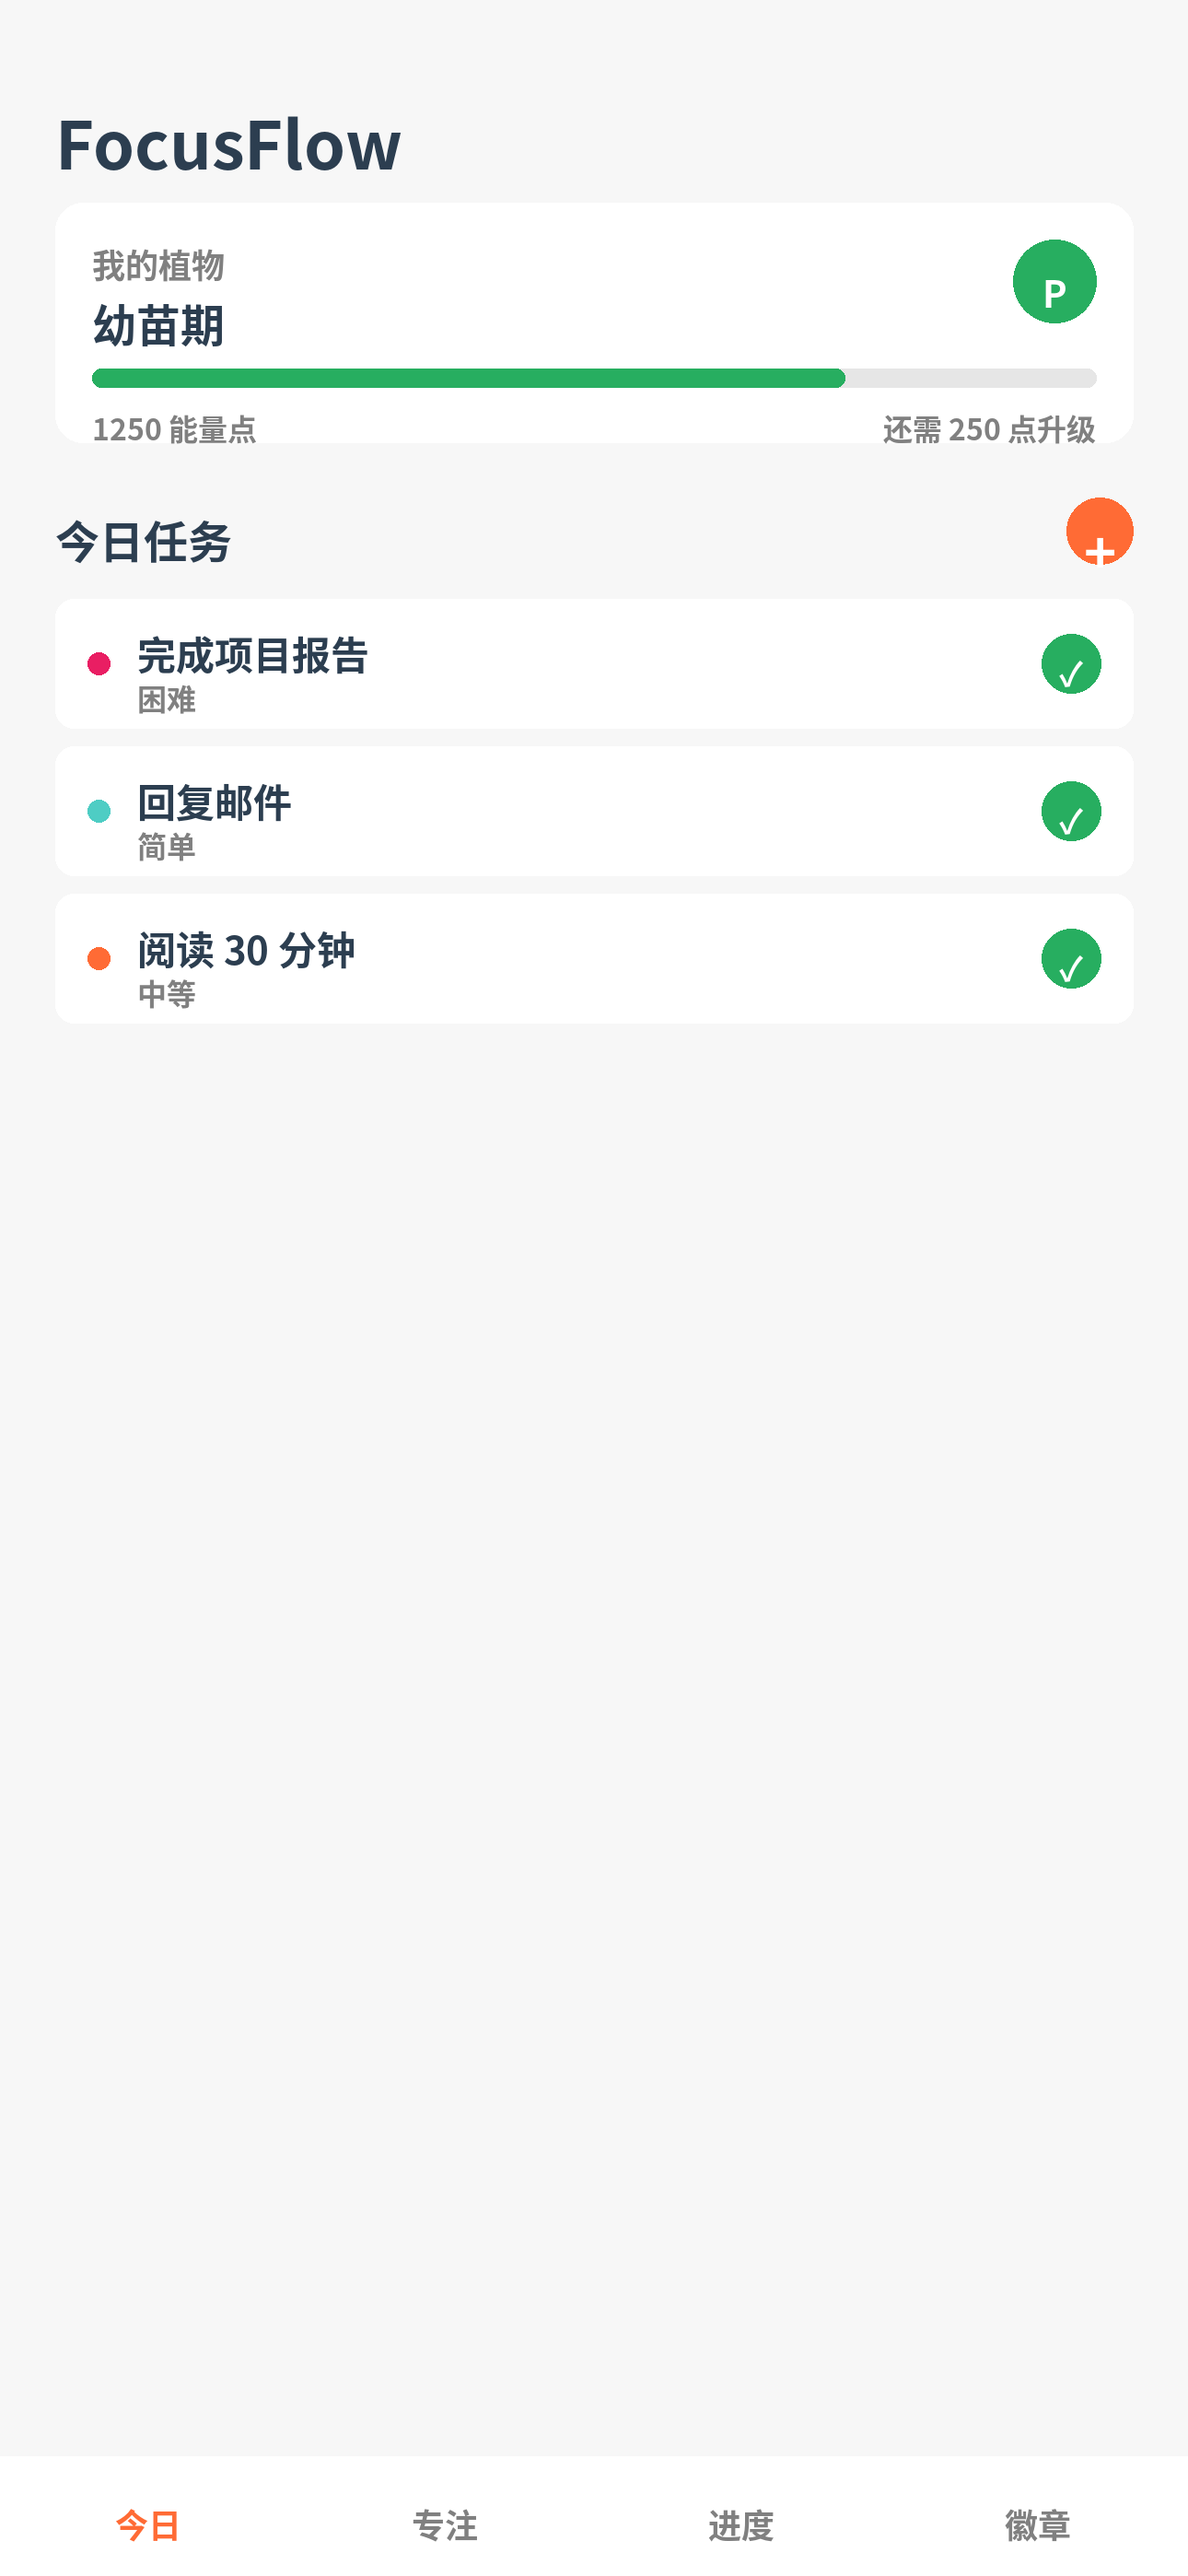
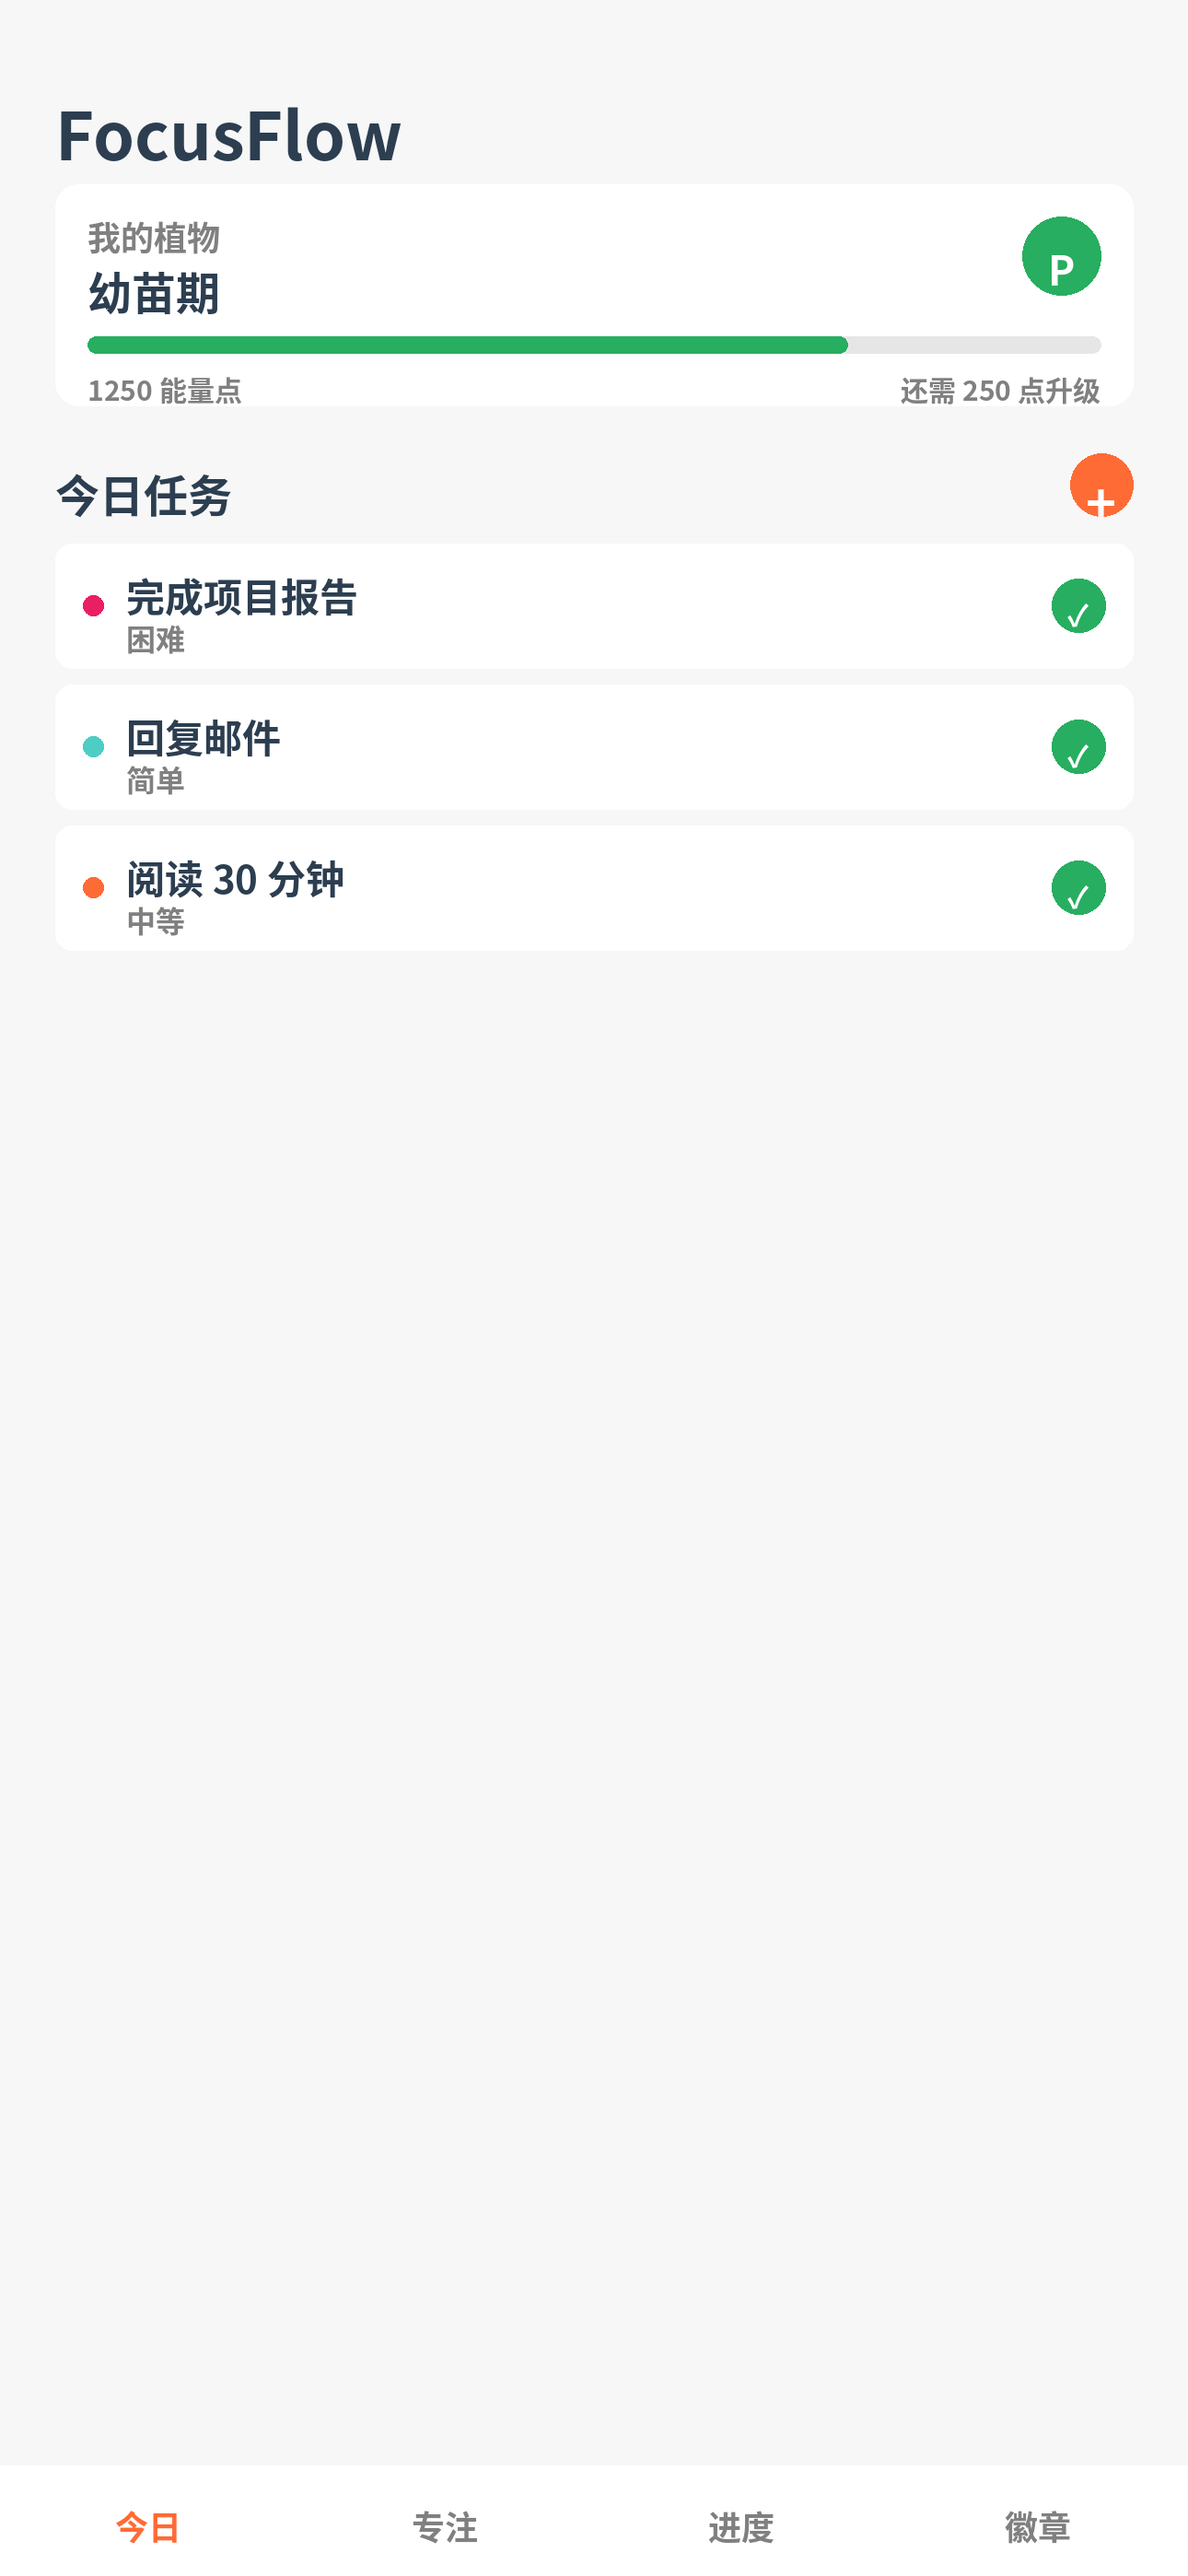
Pixel-perfect layout for screenshot1 home page

diff --git a/generate_screenshots.py b/generate_screenshots.py
@@ -45,75 +45,110 @@ def draw_centered_text(draw, text, center_x, center_y, font, fill):
     draw.text((x, y), text, fill=fill, font=font)
 
 def screenshot1_home():
-    """截图 1: 首页 - 今日任务 - 最终版"""
+    """截图 1: 首页 - 今日任务 - 像素级精确版"""
     img = Image.new('RGB', (WIDTH, HEIGHT), LIGHT_BG)
     draw = ImageDraw.Draw(img)
     
-    font_title = get_font(72)
-    font_card_title = get_font(48)
-    font_card_subtitle = get_font(36)
-    font_task = get_font(42)
-    font_task_sub = get_font(32)
-    font_tab = get_font(36)
-    font_icon = get_font(40)
-    font_plus = get_font(60)
-    font_check = get_font(36)
+    # 字体定义
+    font_title = get_font(72)           # FocusFlow标题
+    font_card_title = get_font(48)      # 卡片大标题
+    font_card_subtitle = get_font(36)   # 卡片小标题
+    font_task = get_font(42)            # 任务名称
+    font_task_sub = get_font(32)        # 任务难度
+    font_tab = get_font(36)             # Tab文字
+    font_icon = get_font(44)            # 图标字母
+    font_plus = get_font(56)            # +号
+    font_check = get_font(32)           # 对勾
+    font_points = get_font(30)          # 积分文字
     
-    margin = 60
+    # 全局边距
+    MARGIN = 60
+    CARD_RADIUS = 25
     
-    # 标题栏
-    draw.text((margin, 100), "FocusFlow", fill=DARK_COLOR, font=font_title)
+    # ===== 顶部标题 =====
+    TITLE_Y = 90
+    draw.text((MARGIN, TITLE_Y), "FocusFlow", fill=DARK_COLOR, font=font_title)
     
     # ===== 植物成长卡片 =====
-    card_y = 220
-    card_height = 260
+    PLANT_CARD_Y = 200
+    PLANT_CARD_HEIGHT = 240
+    PLANT_CARD_PADDING = 35
     
+    # 卡片背景
     draw.rounded_rectangle(
-        [margin, card_y, WIDTH-margin, card_y+card_height], 
-        radius=30, fill=WHITE
+        [MARGIN, PLANT_CARD_Y, WIDTH - MARGIN, PLANT_CARD_Y + PLANT_CARD_HEIGHT],
+        radius=CARD_RADIUS, fill=WHITE
     )
     
-    # 左侧文字
-    text_x = margin + 40
-    draw.text((text_x, card_y + 40), "我的植物", fill=GRAY, font=font_card_subtitle)
-    draw.text((text_x, card_y + 95), "幼苗期", fill=DARK_COLOR, font=font_card_title)
+    # 左侧文字区域
+    LEFT_TEXT_X = MARGIN + PLANT_CARD_PADDING
     
-    # 右侧图标：绿色圆形 + P 居中
-    icon_size = 90
-    icon_x = WIDTH - margin - 40 - icon_size
-    icon_y = card_y + 40
+    # "我的植物" - 小字灰色
+    draw.text((LEFT_TEXT_X, PLANT_CARD_Y + 30), "我的植物", fill=GRAY, font=font_card_subtitle)
     
-    draw.ellipse([icon_x, icon_y, icon_x+icon_size, icon_y+icon_size], fill=SUCCESS_COLOR)
-    draw_centered_text(draw, "P", icon_x + icon_size//2, icon_y + icon_size//2 - 3, font_icon, WHITE)
+    # "幼苗期" - 大字黑色
+    draw.text((LEFT_TEXT_X, PLANT_CARD_Y + 80), "幼苗期", fill=DARK_COLOR, font=font_card_title)
+    
+    # 右侧P图标 - 精确居中于右侧区域
+    ICON_SIZE = 85
+    ICON_X = WIDTH - MARGIN - PLANT_CARD_PADDING - ICON_SIZE
+    ICON_Y = PLANT_CARD_Y + 35
+    
+    # 绿色圆形背景
+    draw.ellipse([ICON_X, ICON_Y, ICON_X + ICON_SIZE, ICON_Y + ICON_SIZE], fill=SUCCESS_COLOR)
+    
+    # P字母精确居中
+    p_bbox = draw.textbbox((0, 0), "P", font=font_icon)
+    p_w = p_bbox[2] - p_bbox[0]
+    p_h = p_bbox[3] - p_bbox[1]
+    p_x = ICON_X + (ICON_SIZE - p_w) // 2
+    p_y = ICON_Y + (ICON_SIZE - p_h) // 2 - 3
+    draw.text((p_x, p_y), "P", fill=WHITE, font=font_icon)
     
     # 进度条
-    bar_y = card_y + 180
-    bar_height = 20
-    bar_width = WIDTH - margin*2 - 80
-    bar_x = margin + 40
+    BAR_Y = PLANT_CARD_Y + 165
+    BAR_HEIGHT = 18
+    BAR_WIDTH = WIDTH - MARGIN * 2 - PLANT_CARD_PADDING * 2
+    BAR_X = MARGIN + PLANT_CARD_PADDING
     
-    draw.rounded_rectangle([bar_x, bar_y, bar_x+bar_width, bar_y+bar_height], radius=10, fill=(230, 230, 230))
-    draw.rounded_rectangle([bar_x, bar_y, bar_x+int(bar_width*0.75), bar_y+bar_height], radius=10, fill=SUCCESS_COLOR)
+    # 灰色背景条
+    draw.rounded_rectangle([BAR_X, BAR_Y, BAR_X + BAR_WIDTH, BAR_Y + BAR_HEIGHT], 
+                          radius=9, fill=(230, 230, 230))
+    # 绿色进度条 (75%)
+    draw.rounded_rectangle([BAR_X, BAR_Y, BAR_X + int(BAR_WIDTH * 0.75), BAR_Y + BAR_HEIGHT], 
+                          radius=9, fill=SUCCESS_COLOR)
     
-    # 积分文字
-    draw.text((bar_x, bar_y + 40), "1250 能量点", fill=GRAY, font=font_task_sub)
+    # 积分文字 - 左右分布
+    POINTS_Y = BAR_Y + 35
+    draw.text((BAR_X, POINTS_Y), "1250 能量点", fill=GRAY, font=font_points)
     
+    # 右侧文字计算宽度后右对齐
     right_text = "还需 250 点升级"
-    rt_bbox = draw.textbbox((0, 0), right_text, font=font_task_sub)
-    rt_width = rt_bbox[2] - rt_bbox[0]
-    draw.text((WIDTH - margin - 40 - rt_width, bar_y + 40), right_text, fill=GRAY, font=font_task_sub)
+    rt_bbox = draw.textbbox((0, 0), right_text, font=font_points)
+    rt_w = rt_bbox[2] - rt_bbox[0]
+    draw.text((BAR_X + BAR_WIDTH - rt_w, POINTS_Y), right_text, fill=GRAY, font=font_points)
     
-    # ===== 今日任务标题行 =====
-    section_y = card_y + card_height + 70
-    draw.text((margin, section_y), "今日任务", fill=DARK_COLOR, font=font_card_title)
+    # ===== 今日任务标题区域 =====
+    TASK_SECTION_Y = PLANT_CARD_Y + PLANT_CARD_HEIGHT + 60
     
-    # 添加按钮 (+) 居右
-    btn_size = 72
-    btn_x = WIDTH - margin - btn_size
-    btn_y = section_y - 10
+    # 左侧标题
+    draw.text((MARGIN, TASK_SECTION_Y), "今日任务", fill=DARK_COLOR, font=font_card_title)
     
-    draw.ellipse([btn_x, btn_y, btn_x+btn_size, btn_y+btn_size], fill=PRIMARY_COLOR)
-    draw_centered_text(draw, "+", btn_x + btn_size//2, btn_y + btn_size//2 - 5, font_plus, WHITE)
+    # 右侧+按钮
+    PLUS_BTN_SIZE = 68
+    PLUS_BTN_X = WIDTH - MARGIN - PLUS_BTN_SIZE
+    PLUS_BTN_Y = TASK_SECTION_Y - 8
+    
+    draw.ellipse([PLUS_BTN_X, PLUS_BTN_Y, PLUS_BTN_X + PLUS_BTN_SIZE, PLUS_BTN_Y + PLUS_BTN_SIZE], 
+                 fill=PRIMARY_COLOR)
+    
+    # +号精确居中
+    plus_bbox = draw.textbbox((0, 0), "+", font=font_plus)
+    plus_w = plus_bbox[2] - plus_bbox[0]
+    plus_h = plus_bbox[3] - plus_bbox[1]
+    plus_x = PLUS_BTN_X + (PLUS_BTN_SIZE - plus_w) // 2
+    plus_y = PLUS_BTN_Y + (PLUS_BTN_SIZE - plus_h) // 2 - 6
+    draw.text((plus_x, plus_y), "+", fill=WHITE, font=font_plus)
     
     # ===== 任务卡片列表 =====
     tasks = [
@@ -122,45 +157,70 @@ def screenshot1_home():
         ("阅读 30 分钟", "中等", PRIMARY_COLOR),
     ]
     
-    card_y = section_y + 100
-    card_height = 140
+    TASK_CARD_Y = TASK_SECTION_Y + 90
+    TASK_CARD_HEIGHT = 135
+    TASK_CARD_GAP = 18
     
-    for task_name, difficulty, color in tasks:
-        draw.rounded_rectangle([margin, card_y, WIDTH-margin, card_y+card_height], radius=20, fill=WHITE)
+    for i, (task_name, difficulty, color) in enumerate(tasks):
+        card_y = TASK_CARD_Y + i * (TASK_CARD_HEIGHT + TASK_CARD_GAP)
         
-        # 难度指示点（垂直居中）
-        dot_size = 24
-        dot_x = margin + 35
-        dot_y = card_y + (card_height - dot_size) // 2
-        draw.ellipse([dot_x, dot_y, dot_x+dot_size, dot_y+dot_size], fill=color)
+        # 卡片背景
+        draw.rounded_rectangle([MARGIN, card_y, WIDTH - MARGIN, card_y + TASK_CARD_HEIGHT],
+                              radius=18, fill=WHITE)
         
-        # 任务名称和难度
-        text_x = dot_x + dot_size + 30
-        draw.text((text_x, card_y + 28), task_name, fill=DARK_COLOR, font=font_task)
-        draw.text((text_x, card_y + 83), difficulty, fill=GRAY, font=font_task_sub)
+        # 左侧难度指示点 - 垂直居中
+        DOT_SIZE = 22
+        DOT_X = MARGIN + 30
+        DOT_Y = card_y + (TASK_CARD_HEIGHT - DOT_SIZE) // 2
+        draw.ellipse([DOT_X, DOT_Y, DOT_X + DOT_SIZE, DOT_Y + DOT_SIZE], fill=color)
         
-        # 完成按钮（垂直居中）
-        btn_size = 64
-        btn_x = WIDTH - margin - 35 - btn_size
-        btn_y = card_y + (card_height - btn_size) // 2
+        # 任务信息区域
+        TEXT_X = DOT_X + DOT_SIZE + 25
         
-        draw.ellipse([btn_x, btn_y, btn_x+btn_size, btn_y+btn_size], fill=SUCCESS_COLOR)
-        draw_centered_text(draw, "✓", btn_x + btn_size//2, btn_y + btn_size//2 - 3, font_check, WHITE)
+        # 任务名称
+        draw.text((TEXT_X, card_y + 25), task_name, fill=DARK_COLOR, font=font_task)
         
-        card_y += card_height + 20
+        # 难度文字
+        draw.text((TEXT_X, card_y + 78), difficulty, fill=GRAY, font=font_task_sub)
+        
+        # 右侧完成按钮 - 垂直居中
+        CHECK_BTN_SIZE = 58
+        CHECK_BTN_X = WIDTH - MARGIN - 30 - CHECK_BTN_SIZE
+        CHECK_BTN_Y = card_y + (TASK_CARD_HEIGHT - CHECK_BTN_SIZE) // 2
+        
+        draw.ellipse([CHECK_BTN_X, CHECK_BTN_Y, CHECK_BTN_X + CHECK_BTN_SIZE, CHECK_BTN_Y + CHECK_BTN_SIZE],
+                     fill=SUCCESS_COLOR)
+        
+        # 对勾精确居中
+        check_bbox = draw.textbbox((0, 0), "✓", font=font_check)
+        check_w = check_bbox[2] - check_bbox[0]
+        check_h = check_bbox[3] - check_bbox[1]
+        check_x = CHECK_BTN_X + (CHECK_BTN_SIZE - check_w) // 2
+        check_y = CHECK_BTN_Y + (CHECK_BTN_SIZE - check_h) // 2 - 2
+        draw.text((check_x, check_y), "✓", fill=WHITE, font=font_check)
     
     # ===== 底部 Tab Bar =====
-    tab_height = 130
-    tab_y = HEIGHT - tab_height
-    draw.rectangle([0, tab_y, WIDTH, HEIGHT], fill=WHITE)
+    TAB_HEIGHT = 120
+    TAB_Y = HEIGHT - TAB_HEIGHT
     
-    tabs = [("今日", True), ("专注", False), ("进度", False), ("徽章", False)]
+    draw.rectangle([0, TAB_Y, WIDTH, HEIGHT], fill=WHITE)
+    
+    # Tab项目
+    tabs = ["今日", "专注", "进度", "徽章"]
     tab_width = WIDTH // 4
     
-    for i, (label, selected) in enumerate(tabs):
-        center_x = i * tab_width + tab_width // 2
-        color = PRIMARY_COLOR if selected else GRAY
-        draw_centered_text(draw, label, center_x, tab_y + tab_height//2, font_tab, color)
+    for i, label in enumerate(tabs):
+        tab_center_x = i * tab_width + tab_width // 2
+        is_selected = (i == 0)
+        color = PRIMARY_COLOR if is_selected else GRAY
+        
+        # 计算文字宽度实现精确居中
+        label_bbox = draw.textbbox((0, 0), label, font=font_tab)
+        label_w = label_bbox[2] - label_bbox[0]
+        label_x = tab_center_x - label_w // 2
+        label_y = TAB_Y + (TAB_HEIGHT - (label_bbox[3] - label_bbox[1])) // 2 - 3
+        
+        draw.text((label_x, label_y), label, fill=color, font=font_tab)
     
     return img
 
